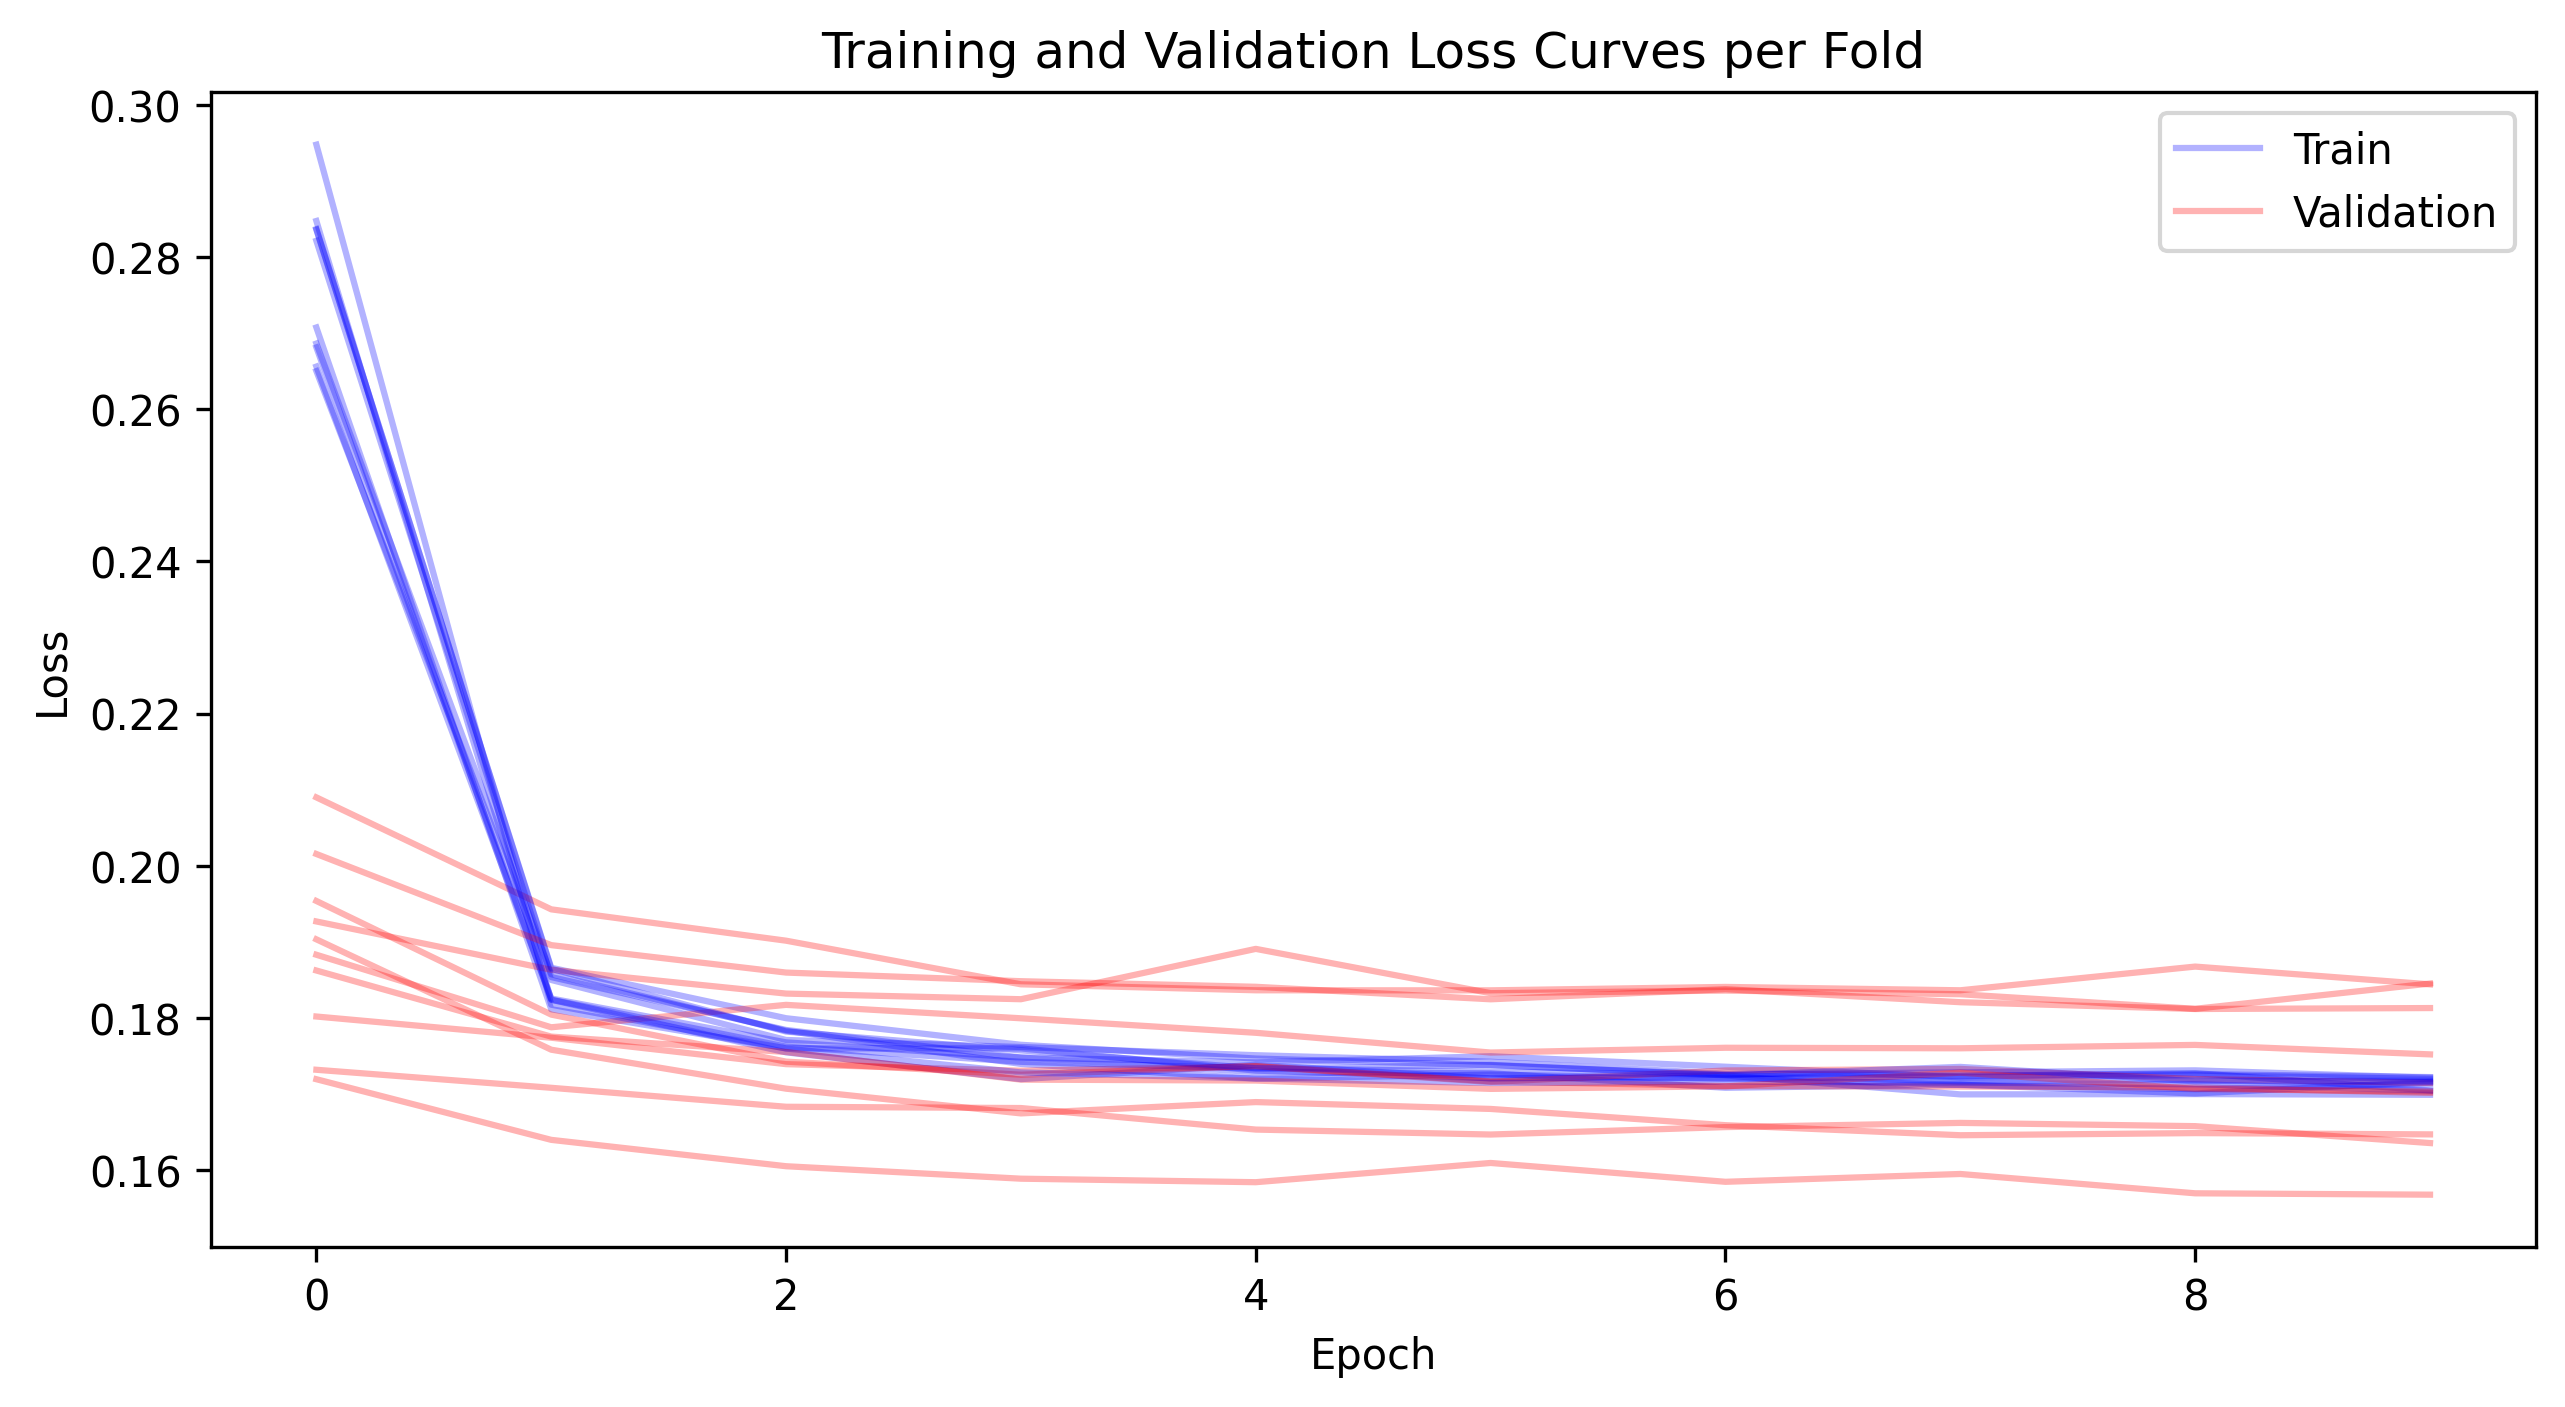
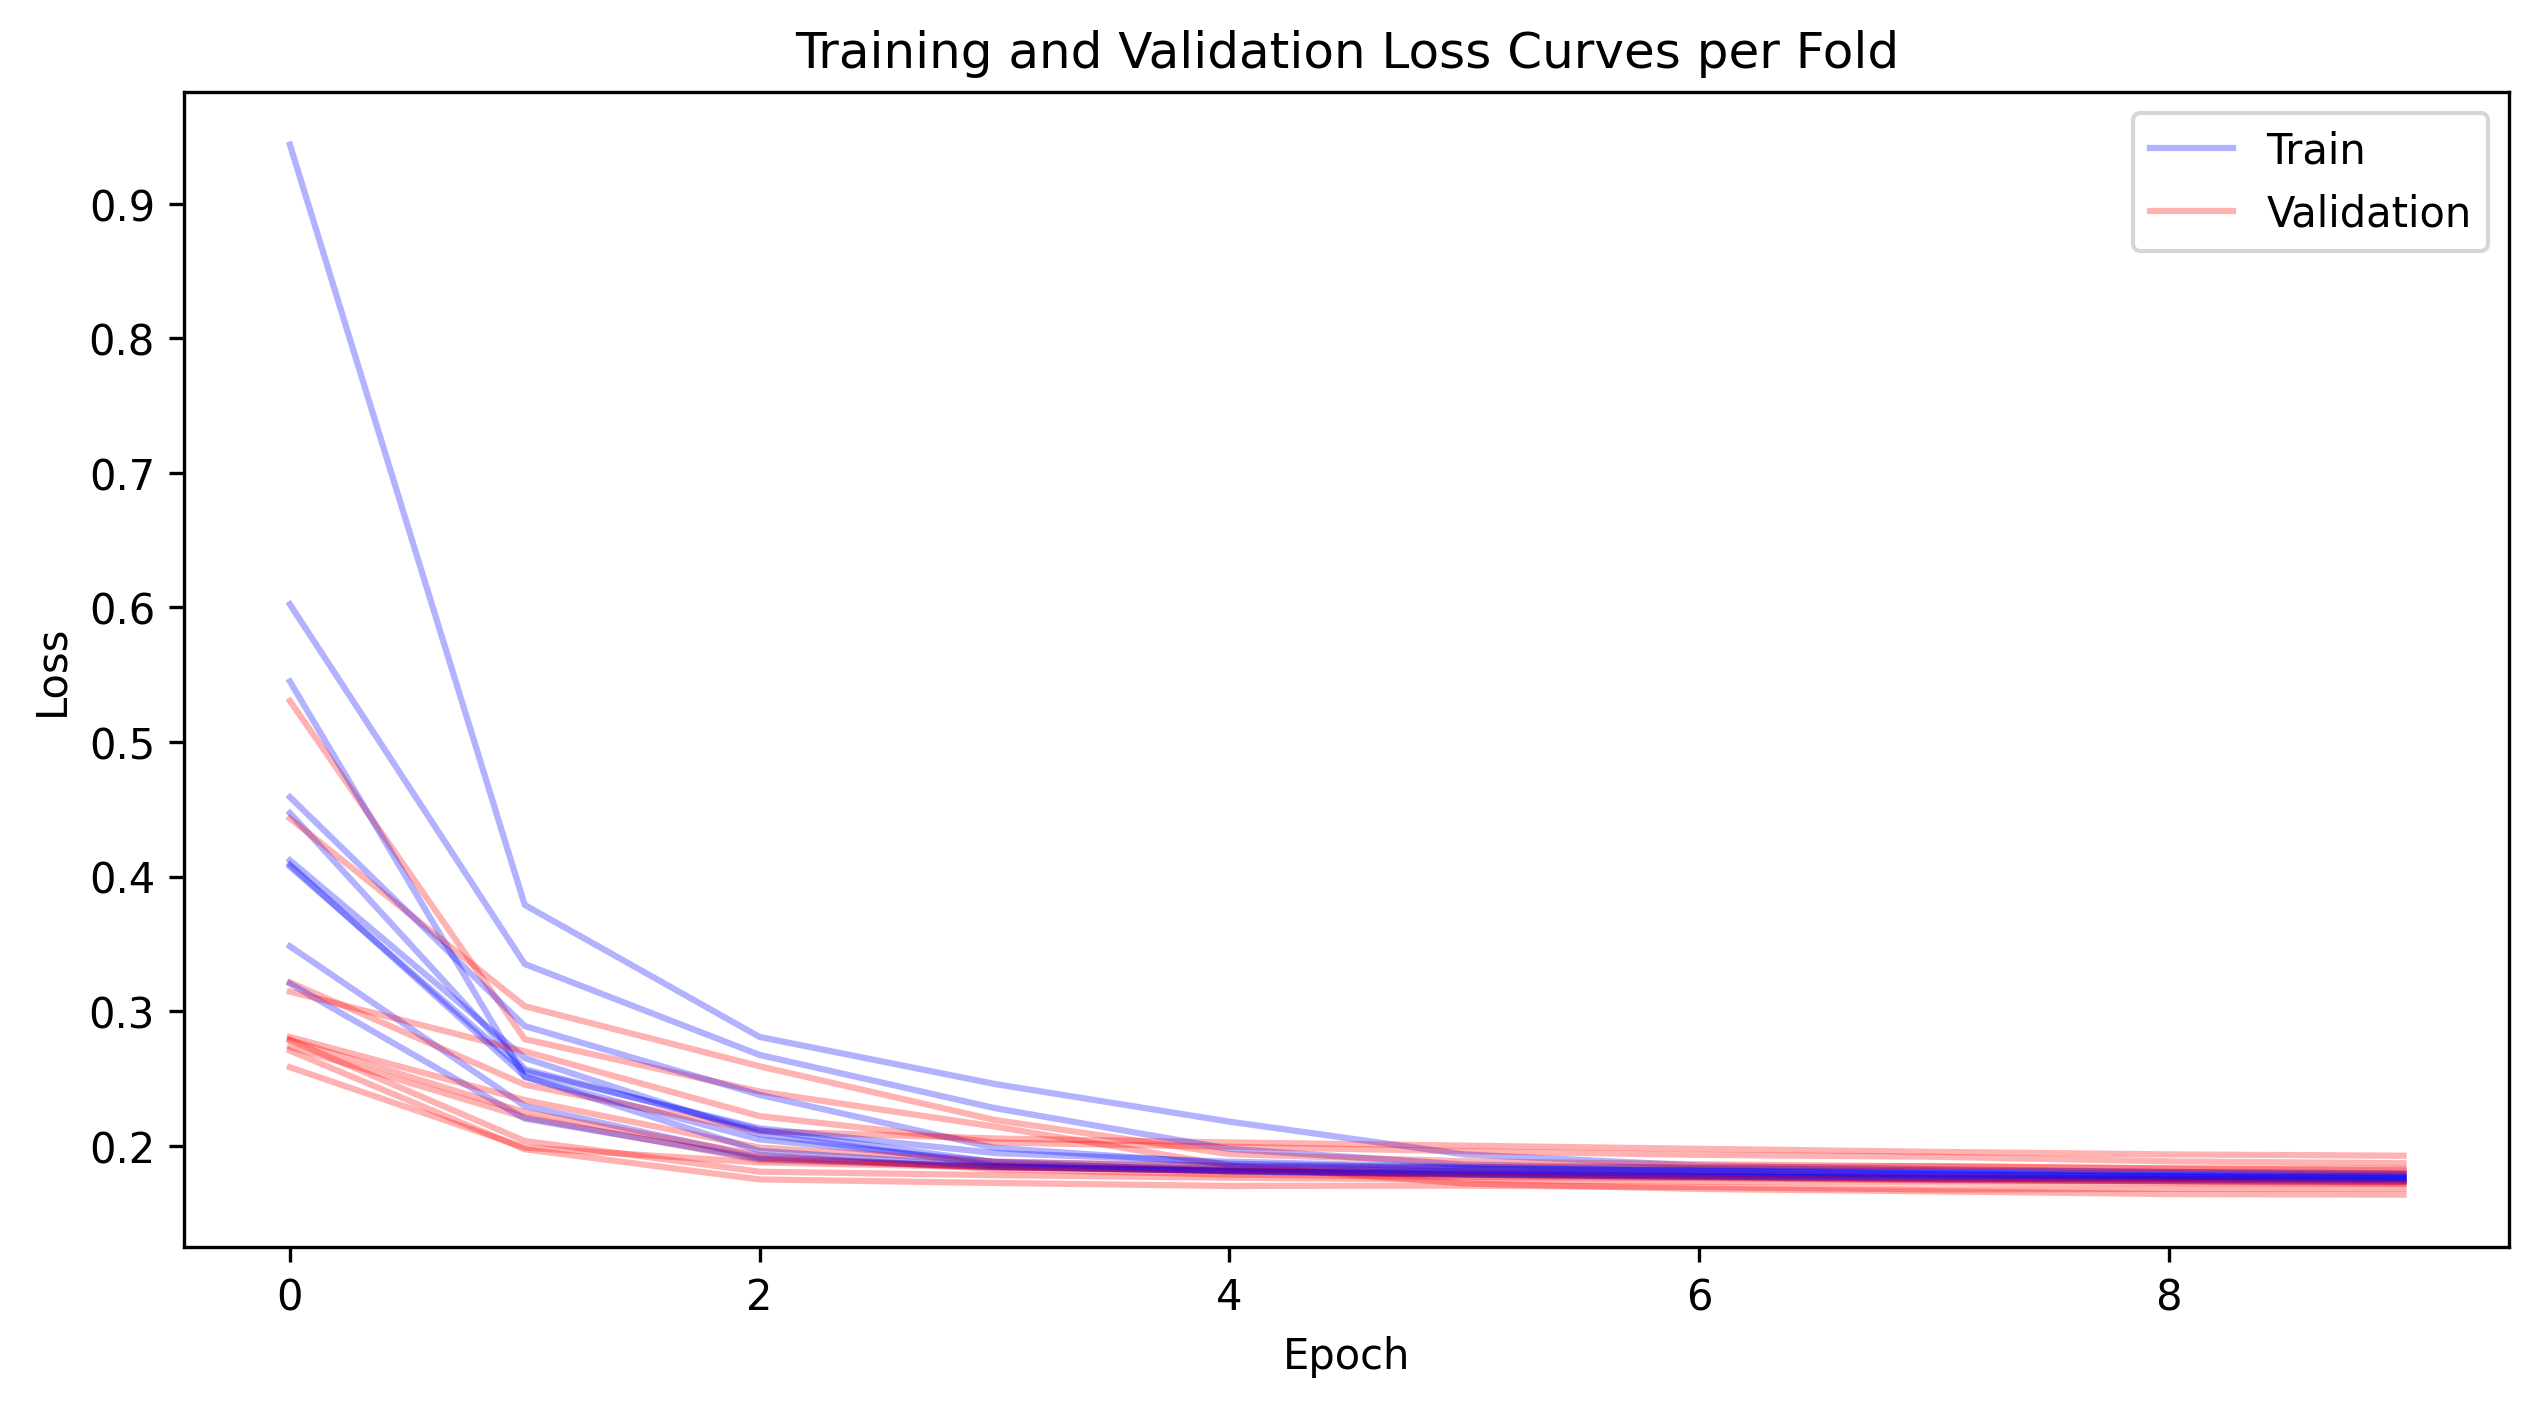
rest of the files

diff --git a/ML_model.py b/ML_model.py
@@ -25,10 +25,10 @@ def calculate_metrics(y_true, y_pred):
 # creating the model based on the input shape (typically the X column)
 def create_model(input_dim):
     model = keras.models.Sequential([
-        keras.layers.Dense(120, activation='relu', input_shape=(input_dim,),
+        keras.layers.Dense(8, activation='relu', input_shape=(input_dim,),
                            kernel_initializer=keras.initializers.glorot_normal(), # prevent vanishing and exploding gradients
                            bias_initializer=keras.initializers.Zeros()),
-        keras.layers.Dense(80, activation='relu',
+        keras.layers.Dense(6, activation='relu',
                            kernel_initializer=keras.initializers.glorot_normal(),
                            bias_initializer=keras.initializers.Zeros()),
         keras.layers.Dense(1, activation='sigmoid') # output between 0 and 1
